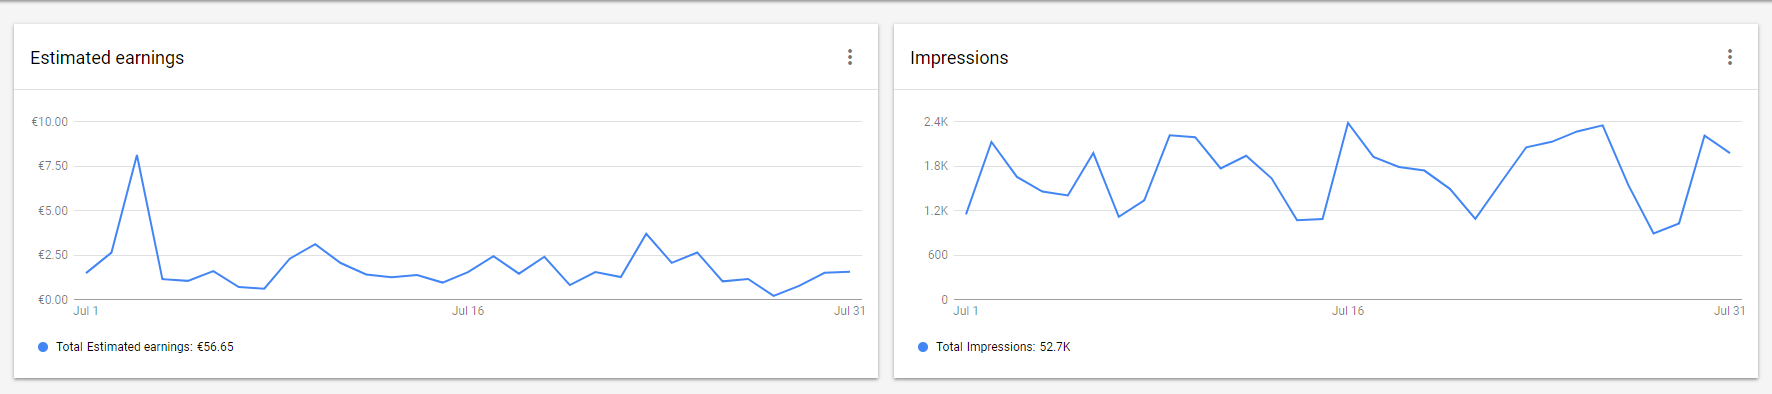
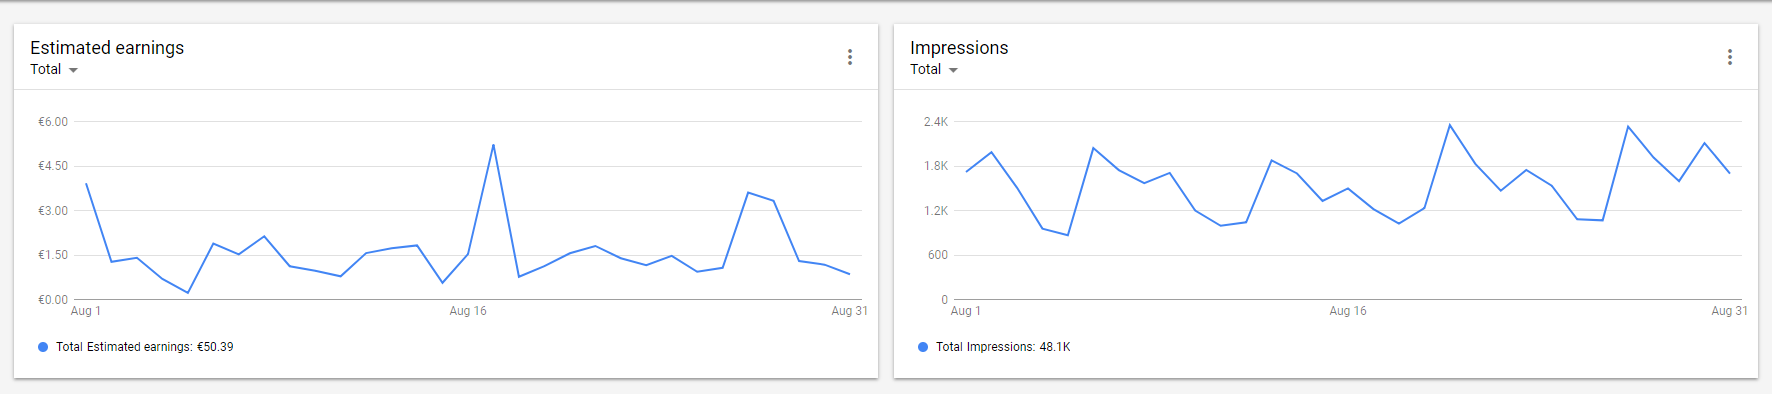
Post(progress-report-august-2018): Initial

diff --git a/src/pages/progress-report-august-2018/progress-report-august-2018.md b/src/pages/progress-report-august-2018/progress-report-august-2018.md
@@ -1,7 +1,7 @@
 ---
-title: Progress Report - July 2018
-featured: /progress-report-july-2018/admob-income.png
-date: 2018-09-01
+title: Progress Report - August 2018
+featured: /progress-report-august-2018/rescueTime.png
+date: 2018-09-03
 categories:
 - Progress Report
 medium:
@@ -16,75 +16,83 @@ steem:
 - javascript
 - technology
 - blog
-draft: true
 ---
 
 I post a progress report showing what I did and how my products performed each month.
-Last month's report can be seen [here](/progress-report-june-2018).
+Last month's report can be seen [here](/progress-report-july-2018).
 
 ## What did I do
 
-![Productive Hours in July](./rescueTime.png)
+![Productive Hours in August](./rescueTime.png)
 
-I worked 46 _productive_ hours last month although I was on vacation the last week(s) as you can see. 💪 (Tracked using [RescueTime](/redirects/rescuetime).)  
-I watched [Barry - S1](https://trakt.tv/shows/barry/seasons/1), [The 7 Deadly Sins - S2](https://trakt.tv/shows/the-seven-deadly-sins/seasons/2).
+I worked **80** _productive_ hours last month. I think this is a new record for this year. 💪 (Tracked using [RescueTime](/redirects/rescuetime).)  
+I finished [Preacher - S3](https://trakt.tv/shows/preacher/seasons/3), started [Better Call Saul - S4](https://trakt.tv/shows/better-call-saul/seasons/4).
 
-I launched King of EOS, my first blockchain EOS app! More on that later.
+I finished the first chapter of my book [Learn EOS Development](https://learneos.one), created a nice PDF preview out of it, automatically sent it out on new signups, and split it up into smaller tutorials that I'll release here on my blog.
+I also added open graph meta tags to all blog posts.
+
+Some nice words I received last month:
+
+> Hi Christoph, I just implemented your "How to access Google Spreadsheets with Node".  I'm a hobbyist programmer.  Cleanest way to do it by far, and I was looking everywhere!
+
+> The world is waiting for this book man, I assure you!
+
+A Chinese company wants the exclusive rights for my book and translate it into Chinese.
+
+I was called a [React Native expert](https://ideamotive.co/blog/best-react-native-experts-blogs/), right next to Dan Abramov.
 
 ## Mobile Apps
+
 ### Downloads
-Total downloads of all my apps went down to **666** 😈 this month. Slightly down again.
+
+Total downloads of all my apps went up to **821** this month. An increase in every app. Is it finally summer time again and people are downloading more fitness apps?
 
 ### In-App Purchases
-In-app Purchases **went down to a single (!) order**. (-4)
 
-I made an estimated **3.41€** (-13.65€) this way.
+In-app Purchases went back up to 5 thanks to PPL workout. (+4)
+
+I made an estimated **18.96€** (+15.55€) this way.
 
 ### Ad Revenue
-My ad revenue went up to **56.65€** (+6.58€) for 52,700 AdMob banner impressions.
+
+My ad revenue went down to **50.39€** (-6.26€) for 52,700 AdMob banner impressions.
 
 ![App Income AdMob](./admob-income.png)
 
 ### Total App Income
-In total, this month's app income was 60.06€ (-7.07€).
+
+In total, this month's app income was **69.35€** (+9.29€).
 
 IAPs | Ads | Total
 --- | --- | ---
-3.41€ | 56.65€ | 60.06€
-
-## Blockchain Dapps
-### King of EOS
-
-I [launched King of EOS](/introducing-king-of-eos/) as my first blockchain dapp at the end of July and overall it was a big success.
-I shared it on some platforms (reddit, telegram, eos project directories, etc.) and itself was shared again by the people using it.
-
-The _king_ of the first ever kingdom _"Kingdom of the un-named"_ on the EOS blockchain is **saidno2banks**.
-He's now in the [Hall of Fame](https://kingofeos.com/) as the first eternal ruler by bidding the final price of 4460 EOS.
-Congrats. ✨
-Overall there were 28 bids on the throne, quickly goading each other at the beginning.
-
-If we look at the traffic, we see it's also a nice way to promote your projects receiving 650 views per day on average:
-
-![Kingofeos traffic](./kingofeos-traffic.png)
+18.96€ | 50.39€ | 69.35€
 
 ## Platform Growth
+
 ### Website
-Sessions went up to 9310 on my website.
+
+Sessions went up to **10,891** on my website.
 
 ![Website Traffic](./website-traffic.png)
 
-Due to being on vacation, I did again **not** stick to my bi-weekly post schedule.
-I only wrote one article about King of EOS but will release another one about its development in the next days.
+I sticked to my bi-weekly schedule of releasing a blog post. It's easy when you have written a whole book chapter. I already have other posts in the pipeline.
 
-1. [Introducing King of EOS 🥁](/introducing-king-of-eos/)
+1. [Learnings from building my first dapp on EOS blockchain](/releasing-my-first-eos-dapp/)
+1. [C++ Guide for EOS Development - Basics](/cpp-guide-for-eos-development-basics/)
+1. [C++ Guide for EOS Development - Call by value / reference](/cpp-guide-for-eos-development-call-by-value-reference/)
 
 ### Subscribers
-My [twitter](https://twitter.com/cmichelio) followers increased by _21_ to 292.
+
+My [twitter](https://twitter.com/cmichelio) followers increased by _26_ to **318**. People like the EOS content.
+
+### Learn EOS Development Subscribers
+
+I currently have **109** email subscribers for [my book](https://learneos.one).
+I would have never expected such a big amount through organic growth.
 
 ## What's next
-Full focus on the book and a potential new blockchain project.
 
-I should also track the signups for [Learn EOS](https://learneos.one) in these monthly reports.
-I need to automate all of this, it's becoming too much to do manually 😬 
+Full focus on the next chapters of the book.
 
 * Write tutorials for free and link to my book. Collect email addresses. All while actually writing the book.
+* Add a way to automate these progress reports? I played around with `yeoman` generators last months, a really nice way to scaffold projects / blog posts.

diff --git a/src/pages/cpp-guide-for-eos-development-classes-and-structs/index.md b/src/pages/cpp-guide-for-eos-development-classes-and-structs/index.md
@@ -1,7 +1,7 @@
 ---
-title: C++ Guide for EOS Development - Call by value / reference
-date: 2018-08-28
-featured: /cpp-guide-for-eos-development-call-by-value-reference/featured.png
+title: C++ Guide for EOS Development - Classes and Structs
+date: 2018-09-04
+featured: /cpp-guide-for-eos-development-classes-and-structs/featured.png
 categories:
 - Tech
 - EOS
@@ -18,14 +18,13 @@ steem:
 - steemdev
 - programming
 - cryptocurrency
-draft: true
 ---
 
 > This post is part of my [C++ Guide for EOS developers](/categories/learneos)
 
 1. [Basics](/cpp-guide-for-eos-development-basics/)
 1. [Call by value / reference & Pointers](/cpp-guide-for-eos-development-call-by-value-reference/)
-1. Classes and Structs
+1. [Classes and Structs](/cpp-guide-for-eos-development-classes-and-structs/)
 1. Templates
 1. Iterators
 1. Lambda Expressions
@@ -33,6 +32,7 @@ draft: true
 1. Header files
 
 ## Classes and Structs
+
 C++ is an object-oriented programming language.
 It has a powerful inheritance system, private and public member variables and a nice way to initialize them in constructors through _member initializer lists_.
 Destructors are the pendant to constructors and allow you to run code when an object is destroyed or falls out of scope.

diff --git a/src/pages/cpp-guide-for-eos-development-basics/index.md b/src/pages/cpp-guide-for-eos-development-basics/index.md
@@ -24,7 +24,7 @@ steem:
 
 1. [Basics](/cpp-guide-for-eos-development-basics/)
 1. [Call by value / reference & Pointers](/cpp-guide-for-eos-development-call-by-value-reference/)
-1. Classes and Structs
+1. [Classes and Structs](/cpp-guide-for-eos-development-classes-and-structs/)
 1. Templates
 1. Iterators
 1. Lambda Expressions

diff --git a/src/pages/cpp-guide-for-eos-development-call-by-value-reference/index.md b/src/pages/cpp-guide-for-eos-development-call-by-value-reference/index.md
@@ -24,7 +24,7 @@ steem:
 
 1. [Basics](/cpp-guide-for-eos-development-basics/)
 1. [Call by value / reference & Pointers](/cpp-guide-for-eos-development-call-by-value-reference/)
-1. Classes and Structs
+1. [Classes and Structs](/cpp-guide-for-eos-development-classes-and-structs/)
 1. Templates
 1. Iterators
 1. Lambda Expressions
